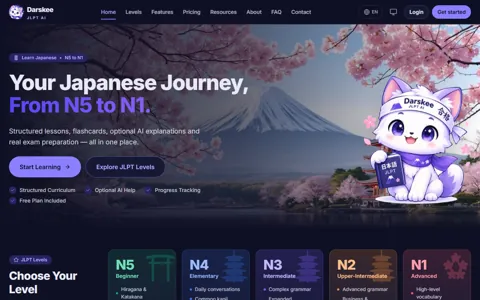
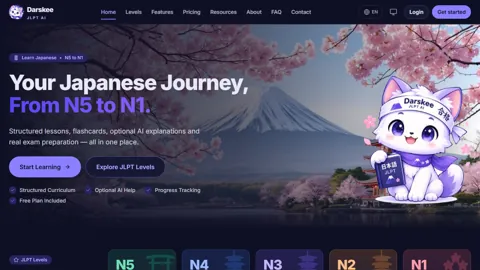
Refresh project previews and homepage showcase
New screenshots of darilquervo.com and guroassistph.site. Homepage hero
now showcases DarskeeAI.com, Darskee JLPT AI and GuroAssist PH; their
screenshots are cropped to 16:9 to fit the frames.

diff --git a/index.html b/index.html
@@ -123,24 +123,24 @@
       <div class="showcase" aria-label="Examples of DarskeeWorks projects">
         <figure class="showcase-item wide">
           <picture>
-            <source type="image/webp" srcset="assets/opt/guroassistph-480.webp 480w, assets/opt/guroassistph-960.webp 960w" sizes="(max-width: 900px) 100vw, 520px" />
-            <img src="assets/guroassistph.png" alt="GuroAssist PH web app — DLL and DLP generator for Filipino teachers" width="960" height="480" fetchpriority="high" />
+            <source type="image/webp" srcset="assets/opt/darskeeai-480.webp 480w, assets/opt/darskeeai-960.webp 960w" sizes="(max-width: 900px) 100vw, 520px" />
+            <img src="assets/darskeeai.png" alt="DarskeeAI.com — AI studio that turns ideas into short videos for TikTok, Reels and Shorts" width="960" height="540" fetchpriority="high" />
+          </picture>
+          <figcaption class="showcase-label"><strong>DarskeeAI.com</strong><span>Web app</span></figcaption>
+        </figure>
+        <figure class="showcase-item">
+          <picture>
+            <source type="image/webp" srcset="assets/opt/darskee-jlpt-ai-480.webp 480w, assets/opt/darskee-jlpt-ai-960.webp 960w" sizes="(max-width: 900px) 50vw, 260px" />
+            <img src="assets/darskee-jlpt-ai.png" alt="Darskee JLPT AI — Japanese study platform from N5 to N1" width="480" height="270" loading="lazy" />
+          </picture>
+          <figcaption class="showcase-label"><strong>Darskee JLPT AI</strong><span>Web app</span></figcaption>
+        </figure>
+        <figure class="showcase-item">
+          <picture>
+            <source type="image/webp" srcset="assets/opt/guroassistph-480.webp 480w, assets/opt/guroassistph-960.webp 960w" sizes="(max-width: 900px) 50vw, 260px" />
+            <img src="assets/guroassistph.png" alt="GuroAssist PH — AI lesson-preparation assistant for Filipino teachers" width="480" height="270" loading="lazy" />
           </picture>
           <figcaption class="showcase-label"><strong>GuroAssist PH</strong><span>Web app</span></figcaption>
-        </figure>
-        <figure class="showcase-item square">
-          <picture>
-            <source type="image/webp" srcset="assets/opt/mochi-sensei-480.webp" />
-            <img src="assets/mochi-sensei.png" alt="Mochi Sensei iOS app icon" width="480" height="480" loading="lazy" />
-          </picture>
-          <figcaption class="showcase-label"><strong>Mochi Sensei</strong><span>iOS</span></figcaption>
-        </figure>
-        <figure class="showcase-item square">
-          <picture>
-            <source type="image/webp" srcset="assets/opt/inventory-app-480.webp" />
-            <img src="assets/inventory-app.png" alt="Darskee Sales and Inventory Android app icon" width="480" height="480" loading="lazy" />
-          </picture>
-          <figcaption class="showcase-label"><strong>Sales &amp; Inventory</strong><span>Android</span></figcaption>
         </figure>
       </div>
     </div>
